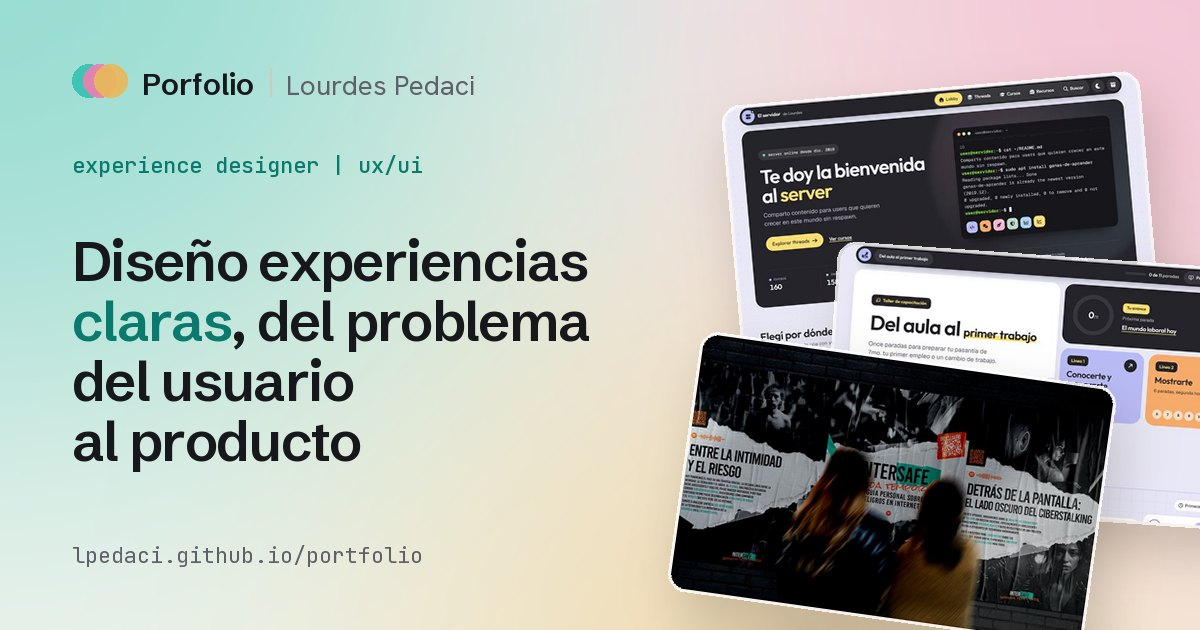
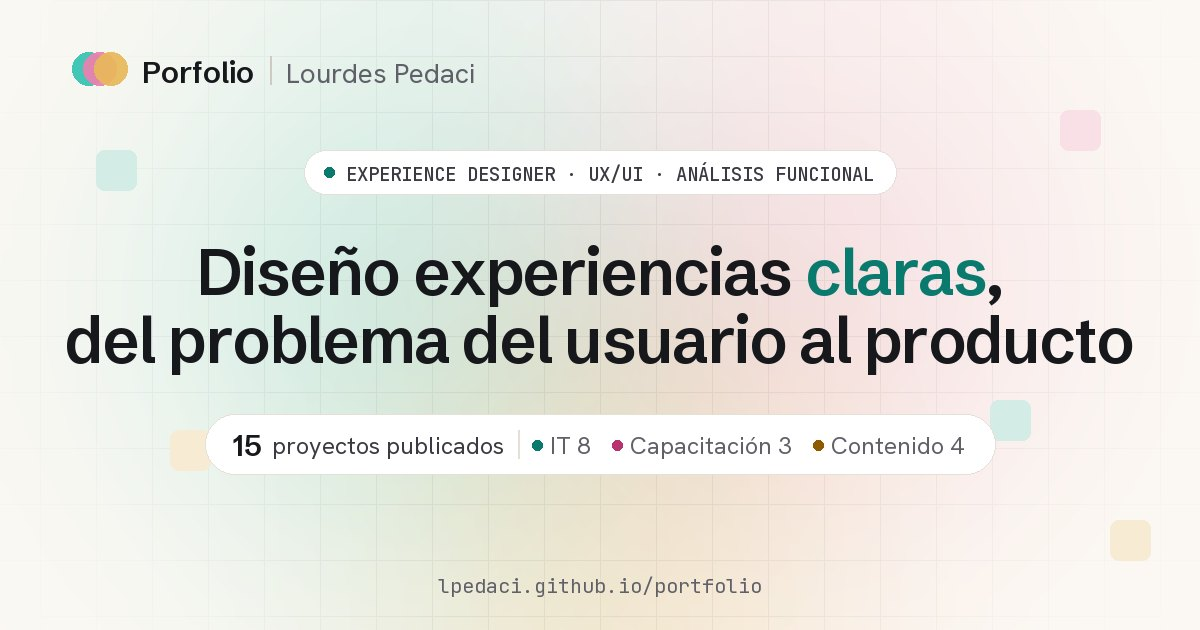
feat: og-card de la portada con el diseño del hero, Capacitadora 2026 y Consultora UX/UI actualizada en el recorrido, roles a los que apunto y sin sombra al pasar sobre Habilidades

diff --git a/assets/js/i18n.js b/assets/js/i18n.js
@@ -57,9 +57,10 @@ window.I18N = {
     path: [
       { year: '2019', role: 'Instructora de Sistemas Operativos y Seguridad de la Información', org: 'Instituto Leonardo Murialdo', body: 'Diagnóstico de incidentes en escenarios reales, rutas de aprendizaje por perfil y gestión de requisitos y KPIs en proyectos de ciberseguridad.' },
       { year: '2022', role: 'Estandarización de infraestructura IT', org: 'Laboratorios de informática', body: 'Auditoría de hardware y software, y un SOP de 96 páginas que cualquier técnico puede reproducir.' },
-      { year: '2024', role: 'Consultora UX/UI', org: 'Independiente', body: 'Auditorías heurísticas, wireframes y testeo con usuarios. Investigación con 1.741 participantes en un programa de riesgos digitales.' },
+      { year: '2024', role: 'Consultora UX/UI', org: 'Independiente', body: 'Asesoramiento a equipos de proyecto en Diseño Centrado en el Usuario, de la definición del problema al testing. Workshops de prototipado y diseño de interfaces, auditorías UX con análisis heurístico, wireframes y pruebas con usuarios, y análisis del manejo de la información en proyectos web: estructura de la base de datos, consistencia de los datos y presentación en la interfaz.' },
       { year: '2025', role: 'Facilitadora de gestión de proyectos', org: 'Incubadora ágil híbrida', body: 'Ciclo de vida con sprints y Gantt, cohortes anuales de más de 70 integrantes y equipos que desarrollan con clientes reales.' },
-      { year: 'próximo paso', role: 'Análisis funcional en IT', role2: 'Diseño UX/UI', org: 'Roles a los que apunto', body: 'Relevamiento de requisitos, documentación funcional y gestión ágil, o diseño de experiencia e interfaz, dentro de un equipo de producto.', target: true }
+      { year: '2026', role: 'Capacitadora', org: 'Talleres de empleabilidad e IA', body: 'Diseño y facilitación de talleres de empleabilidad (CV, LinkedIn, entrevistas) y desarrollo personal, y de herramientas de IA para generar contenido: prompts, flujos de trabajo y revisión crítica de resultados. Plantillas, guías y recursos web para practicar después del taller.' },
+      { year: 'próximo paso', role: 'Diseño de experiencias (UX/UI)', role2: 'Creación de producto', org: 'Roles a los que apunto', body: 'Investigación con usuarios, diseño de experiencia e interfaz y construcción de producto de punta a punta, del problema y los requisitos al prototipo y la entrega, dentro de un equipo de producto.', target: true }
     ],
     skillsTitle: 'Habilidades',
     skills: [
@@ -157,9 +158,10 @@ window.I18N = {
     path: [
       { year: '2019', role: 'Operating Systems and Information Security instructor', org: 'Instituto Leonardo Murialdo', body: 'Diagnosing incidents in real scenarios, role-based learning paths, and managing requirements and KPIs in cybersecurity projects.' },
       { year: '2022', role: 'IT infrastructure standardisation', org: 'Computer labs', body: 'Hardware and software audit, and a 96-page SOP that any technician can reproduce.' },
-      { year: '2024', role: 'UX/UI consultant', org: 'Independent', body: 'Heuristic audits, wireframes and user testing. Research with 1,741 participants in a digital risk programme.' },
+      { year: '2024', role: 'UX/UI consultant', org: 'Independent', body: 'Advising project teams on User-Centred Design, from problem definition to testing. Hands-on prototyping and interface design workshops, UX audits based on heuristic analysis, wireframes and user testing, and analysis of how web projects handle information: database structure, data consistency and how it is presented in the interface.' },
       { year: '2025', role: 'Project management facilitator', org: 'Hybrid agile incubator', body: 'Project lifecycle with sprints and Gantt, yearly cohorts of 70+ people, and teams building for real clients.' },
-      { year: 'next step', role: 'Functional analysis in IT', role2: 'UX/UI design', org: 'The roles I am aiming for', body: 'Requirements gathering, functional documentation and agile delivery, or experience and interface design, inside a product team.', target: true }
+      { year: '2026', role: 'Trainer', org: 'Employability and AI workshops', body: 'Design and delivery of employability workshops (CV, LinkedIn, interviews) and personal development, plus workshops on AI tools for content creation: prompts, workflows and critical review of results. Templates, guides and web resources to keep practising after the workshop.' },
+      { year: 'next step', role: 'Experience design (UX/UI)', role2: 'Product creation', org: 'The roles I am aiming for', body: 'User research, experience and interface design, and building products end to end, from the problem and requirements to the prototype and delivery, inside a product team.', target: true }
     ],
     skillsTitle: 'Skills',
     skills: [

diff --git a/casos/servidor/index.html b/casos/servidor/index.html
@@ -33,9 +33,9 @@
   <meta name="twitter:image:alt" content="Repositorio web de recursos para autocapacitarse: análisis y diseño UX/UI: caso del porfolio de Lourdes Pedaci, Experience Designer, con una captura del proyecto.">
   <link rel="preload" href="../../assets/fonts/hanken-grotesk-latin.woff2" as="font" type="font/woff2" crossorigin>
   <link rel="preload" href="../../assets/fonts/schibsted-grotesk-latin.woff2" as="font" type="font/woff2" crossorigin>
-  <link rel="stylesheet" href="../../assets/css/fonts.css?v=202611081936">
-  <link rel="stylesheet" href="../../assets/css/icons.css?v=202611081936">
-  <link rel="stylesheet" href="../../assets/css/styles.css?v=202611081936">
+  <link rel="stylesheet" href="../../assets/css/fonts.css?v=202611082051">
+  <link rel="stylesheet" href="../../assets/css/icons.css?v=202611082051">
+  <link rel="stylesheet" href="../../assets/css/styles.css?v=202611082051">
 </head>
 <body data-slug="servidor">
   <a class="skip" href="#main" data-i18n="skip">Ir al contenido</a>
@@ -71,10 +71,10 @@
       <a class="foot__top" href="#main"><span data-i18n="backTop">Volver arriba</span><i class="ph ph-arrow-up" aria-hidden="true"></i></a>
     </div>
   </footer>
-  <script src="../../assets/js/i18n.js?v=202611081936"></script>
-  <script src="../../assets/js/projects.js?v=202611081936"></script>
-  <script src="../../assets/js/cases.js?v=202611081936"></script>
-  <script src="../../assets/js/case.js?v=202611081936"></script>
-  <script src="../../assets/js/nav.js?v=202611081936"></script>
+  <script src="../../assets/js/i18n.js?v=202611082051"></script>
+  <script src="../../assets/js/projects.js?v=202611082051"></script>
+  <script src="../../assets/js/cases.js?v=202611082051"></script>
+  <script src="../../assets/js/case.js?v=202611082051"></script>
+  <script src="../../assets/js/nav.js?v=202611082051"></script>
 </body>
 </html>

diff --git a/casos/sistemas-operativos/index.html b/casos/sistemas-operativos/index.html
@@ -33,9 +33,9 @@
   <meta name="twitter:image:alt" content="Sistemas Operativos: almacenamiento y seteo: caso del porfolio de Lourdes Pedaci, Experience Designer, con una captura del proyecto.">
   <link rel="preload" href="../../assets/fonts/hanken-grotesk-latin.woff2" as="font" type="font/woff2" crossorigin>
   <link rel="preload" href="../../assets/fonts/schibsted-grotesk-latin.woff2" as="font" type="font/woff2" crossorigin>
-  <link rel="stylesheet" href="../../assets/css/fonts.css?v=202611081936">
-  <link rel="stylesheet" href="../../assets/css/icons.css?v=202611081936">
-  <link rel="stylesheet" href="../../assets/css/styles.css?v=202611081936">
+  <link rel="stylesheet" href="../../assets/css/fonts.css?v=202611082051">
+  <link rel="stylesheet" href="../../assets/css/icons.css?v=202611082051">
+  <link rel="stylesheet" href="../../assets/css/styles.css?v=202611082051">
 </head>
 <body data-slug="sistemas-operativos">
   <a class="skip" href="#main" data-i18n="skip">Ir al contenido</a>
@@ -71,10 +71,10 @@
       <a class="foot__top" href="#main"><span data-i18n="backTop">Volver arriba</span><i class="ph ph-arrow-up" aria-hidden="true"></i></a>
     </div>
   </footer>
-  <script src="../../assets/js/i18n.js?v=202611081936"></script>
-  <script src="../../assets/js/projects.js?v=202611081936"></script>
-  <script src="../../assets/js/cases.js?v=202611081936"></script>
-  <script src="../../assets/js/case.js?v=202611081936"></script>
-  <script src="../../assets/js/nav.js?v=202611081936"></script>
+  <script src="../../assets/js/i18n.js?v=202611082051"></script>
+  <script src="../../assets/js/projects.js?v=202611082051"></script>
+  <script src="../../assets/js/cases.js?v=202611082051"></script>
+  <script src="../../assets/js/case.js?v=202611082051"></script>
+  <script src="../../assets/js/nav.js?v=202611082051"></script>
 </body>
 </html>

diff --git a/casos/auditoria-estetica/index.html b/casos/auditoria-estetica/index.html
@@ -33,9 +33,9 @@
   <meta name="twitter:image:alt" content="Auditoría UX/UI de un centro de estética: caso del porfolio de Lourdes Pedaci, Experience Designer, con una captura del proyecto.">
   <link rel="preload" href="../../assets/fonts/hanken-grotesk-latin.woff2" as="font" type="font/woff2" crossorigin>
   <link rel="preload" href="../../assets/fonts/schibsted-grotesk-latin.woff2" as="font" type="font/woff2" crossorigin>
-  <link rel="stylesheet" href="../../assets/css/fonts.css?v=202611081936">
-  <link rel="stylesheet" href="../../assets/css/icons.css?v=202611081936">
-  <link rel="stylesheet" href="../../assets/css/styles.css?v=202611081936">
+  <link rel="stylesheet" href="../../assets/css/fonts.css?v=202611082051">
+  <link rel="stylesheet" href="../../assets/css/icons.css?v=202611082051">
+  <link rel="stylesheet" href="../../assets/css/styles.css?v=202611082051">
 </head>
 <body data-slug="auditoria-estetica">
   <a class="skip" href="#main" data-i18n="skip">Ir al contenido</a>
@@ -71,10 +71,10 @@
       <a class="foot__top" href="#main"><span data-i18n="backTop">Volver arriba</span><i class="ph ph-arrow-up" aria-hidden="true"></i></a>
     </div>
   </footer>
-  <script src="../../assets/js/i18n.js?v=202611081936"></script>
-  <script src="../../assets/js/projects.js?v=202611081936"></script>
-  <script src="../../assets/js/cases.js?v=202611081936"></script>
-  <script src="../../assets/js/case.js?v=202611081936"></script>
-  <script src="../../assets/js/nav.js?v=202611081936"></script>
+  <script src="../../assets/js/i18n.js?v=202611082051"></script>
+  <script src="../../assets/js/projects.js?v=202611082051"></script>
+  <script src="../../assets/js/cases.js?v=202611082051"></script>
+  <script src="../../assets/js/case.js?v=202611082051"></script>
+  <script src="../../assets/js/nav.js?v=202611082051"></script>
 </body>
 </html>

diff --git a/casos/riesgos-digitales/index.html b/casos/riesgos-digitales/index.html
@@ -33,9 +33,9 @@
   <meta name="twitter:image:alt" content="Programa participativo de riesgos digitales: caso del porfolio de Lourdes Pedaci, Experience Designer, con una captura del proyecto.">
   <link rel="preload" href="../../assets/fonts/hanken-grotesk-latin.woff2" as="font" type="font/woff2" crossorigin>
   <link rel="preload" href="../../assets/fonts/schibsted-grotesk-latin.woff2" as="font" type="font/woff2" crossorigin>
-  <link rel="stylesheet" href="../../assets/css/fonts.css?v=202611081936">
-  <link rel="stylesheet" href="../../assets/css/icons.css?v=202611081936">
-  <link rel="stylesheet" href="../../assets/css/styles.css?v=202611081936">
+  <link rel="stylesheet" href="../../assets/css/fonts.css?v=202611082051">
+  <link rel="stylesheet" href="../../assets/css/icons.css?v=202611082051">
+  <link rel="stylesheet" href="../../assets/css/styles.css?v=202611082051">
 </head>
 <body data-slug="riesgos-digitales">
   <a class="skip" href="#main" data-i18n="skip">Ir al contenido</a>
@@ -71,10 +71,10 @@
       <a class="foot__top" href="#main"><span data-i18n="backTop">Volver arriba</span><i class="ph ph-arrow-up" aria-hidden="true"></i></a>
     </div>
   </footer>
-  <script src="../../assets/js/i18n.js?v=202611081936"></script>
-  <script src="../../assets/js/projects.js?v=202611081936"></script>
-  <script src="../../assets/js/cases.js?v=202611081936"></script>
-  <script src="../../assets/js/case.js?v=202611081936"></script>
-  <script src="../../assets/js/nav.js?v=202611081936"></script>
+  <script src="../../assets/js/i18n.js?v=202611082051"></script>
+  <script src="../../assets/js/projects.js?v=202611082051"></script>
+  <script src="../../assets/js/cases.js?v=202611082051"></script>
+  <script src="../../assets/js/case.js?v=202611082051"></script>
+  <script src="../../assets/js/nav.js?v=202611082051"></script>
 </body>
 </html>

diff --git a/casos/infraestructura-it/index.html b/casos/infraestructura-it/index.html
@@ -33,9 +33,9 @@
   <meta name="twitter:image:alt" content="Estandarización de infraestructura IT: caso del porfolio de Lourdes Pedaci, Experience Designer, con una captura del proyecto.">
   <link rel="preload" href="../../assets/fonts/hanken-grotesk-latin.woff2" as="font" type="font/woff2" crossorigin>
   <link rel="preload" href="../../assets/fonts/schibsted-grotesk-latin.woff2" as="font" type="font/woff2" crossorigin>
-  <link rel="stylesheet" href="../../assets/css/fonts.css?v=202611081936">
-  <link rel="stylesheet" href="../../assets/css/icons.css?v=202611081936">
-  <link rel="stylesheet" href="../../assets/css/styles.css?v=202611081936">
+  <link rel="stylesheet" href="../../assets/css/fonts.css?v=202611082051">
+  <link rel="stylesheet" href="../../assets/css/icons.css?v=202611082051">
+  <link rel="stylesheet" href="../../assets/css/styles.css?v=202611082051">
 </head>
 <body data-slug="infraestructura-it">
   <a class="skip" href="#main" data-i18n="skip">Ir al contenido</a>
@@ -71,10 +71,10 @@
       <a class="foot__top" href="#main"><span data-i18n="backTop">Volver arriba</span><i class="ph ph-arrow-up" aria-hidden="true"></i></a>
     </div>
   </footer>
-  <script src="../../assets/js/i18n.js?v=202611081936"></script>
-  <script src="../../assets/js/projects.js?v=202611081936"></script>
-  <script src="../../assets/js/cases.js?v=202611081936"></script>
-  <script src="../../assets/js/case.js?v=202611081936"></script>
-  <script src="../../assets/js/nav.js?v=202611081936"></script>
+  <script src="../../assets/js/i18n.js?v=202611082051"></script>
+  <script src="../../assets/js/projects.js?v=202611082051"></script>
+  <script src="../../assets/js/cases.js?v=202611082051"></script>
+  <script src="../../assets/js/case.js?v=202611082051"></script>
+  <script src="../../assets/js/nav.js?v=202611082051"></script>
 </body>
 </html>

diff --git a/casos/auditoria-turnos/index.html b/casos/auditoria-turnos/index.html
@@ -33,9 +33,9 @@
   <meta name="twitter:image:alt" content="Auditoría UX/UI de un portal de turnos: caso del porfolio de Lourdes Pedaci, Experience Designer, con una captura del proyecto.">
   <link rel="preload" href="../../assets/fonts/hanken-grotesk-latin.woff2" as="font" type="font/woff2" crossorigin>
   <link rel="preload" href="../../assets/fonts/schibsted-grotesk-latin.woff2" as="font" type="font/woff2" crossorigin>
-  <link rel="stylesheet" href="../../assets/css/fonts.css?v=202611081936">
-  <link rel="stylesheet" href="../../assets/css/icons.css?v=202611081936">
-  <link rel="stylesheet" href="../../assets/css/styles.css?v=202611081936">
+  <link rel="stylesheet" href="../../assets/css/fonts.css?v=202611082051">
+  <link rel="stylesheet" href="../../assets/css/icons.css?v=202611082051">
+  <link rel="stylesheet" href="../../assets/css/styles.css?v=202611082051">
 </head>
 <body data-slug="auditoria-turnos">
   <a class="skip" href="#main" data-i18n="skip">Ir al contenido</a>
@@ -71,10 +71,10 @@
       <a class="foot__top" href="#main"><span data-i18n="backTop">Volver arriba</span><i class="ph ph-arrow-up" aria-hidden="true"></i></a>
     </div>
   </footer>
-  <script src="../../assets/js/i18n.js?v=202611081936"></script>
-  <script src="../../assets/js/projects.js?v=202611081936"></script>
-  <script src="../../assets/js/cases.js?v=202611081936"></script>
-  <script src="../../assets/js/case.js?v=202611081936"></script>
-  <script src="../../assets/js/nav.js?v=202611081936"></script>
+  <script src="../../assets/js/i18n.js?v=202611082051"></script>
+  <script src="../../assets/js/projects.js?v=202611082051"></script>
+  <script src="../../assets/js/cases.js?v=202611082051"></script>
+  <script src="../../assets/js/case.js?v=202611082051"></script>
+  <script src="../../assets/js/nav.js?v=202611082051"></script>
 </body>
 </html>

diff --git a/casos/docente-era-digital/index.html b/casos/docente-era-digital/index.html
@@ -33,9 +33,9 @@
   <meta name="twitter:image:alt" content="El rol docente en la era digital: caso del porfolio de Lourdes Pedaci, Experience Designer, con una captura del proyecto.">
   <link rel="preload" href="../../assets/fonts/hanken-grotesk-latin.woff2" as="font" type="font/woff2" crossorigin>
   <link rel="preload" href="../../assets/fonts/schibsted-grotesk-latin.woff2" as="font" type="font/woff2" crossorigin>
-  <link rel="stylesheet" href="../../assets/css/fonts.css?v=202611081936">
-  <link rel="stylesheet" href="../../assets/css/icons.css?v=202611081936">
-  <link rel="stylesheet" href="../../assets/css/styles.css?v=202611081936">
+  <link rel="stylesheet" href="../../assets/css/fonts.css?v=202611082051">
+  <link rel="stylesheet" href="../../assets/css/icons.css?v=202611082051">
+  <link rel="stylesheet" href="../../assets/css/styles.css?v=202611082051">
 </head>
 <body data-slug="docente-era-digital">
   <a class="skip" href="#main" data-i18n="skip">Ir al contenido</a>
@@ -71,10 +71,10 @@
       <a class="foot__top" href="#main"><span data-i18n="backTop">Volver arriba</span><i class="ph ph-arrow-up" aria-hidden="true"></i></a>
     </div>
   </footer>
-  <script src="../../assets/js/i18n.js?v=202611081936"></script>
-  <script src="../../assets/js/projects.js?v=202611081936"></script>
-  <script src="../../assets/js/cases.js?v=202611081936"></script>
-  <script src="../../assets/js/case.js?v=202611081936"></script>
-  <script src="../../assets/js/nav.js?v=202611081936"></script>
+  <script src="../../assets/js/i18n.js?v=202611082051"></script>
+  <script src="../../assets/js/projects.js?v=202611082051"></script>
+  <script src="../../assets/js/cases.js?v=202611082051"></script>
+  <script src="../../assets/js/case.js?v=202611082051"></script>
+  <script src="../../assets/js/nav.js?v=202611082051"></script>
 </body>
 </html>

diff --git a/casos/erp-motion-graphics/index.html b/casos/erp-motion-graphics/index.html
@@ -33,9 +33,9 @@
   <meta name="twitter:image:alt" content="Sistemas ERP en motion graphics: caso del porfolio de Lourdes Pedaci, Experience Designer, con una captura del proyecto.">
   <link rel="preload" href="../../assets/fonts/hanken-grotesk-latin.woff2" as="font" type="font/woff2" crossorigin>
   <link rel="preload" href="../../assets/fonts/schibsted-grotesk-latin.woff2" as="font" type="font/woff2" crossorigin>
-  <link rel="stylesheet" href="../../assets/css/fonts.css?v=202611081936">
-  <link rel="stylesheet" href="../../assets/css/icons.css?v=202611081936">
-  <link rel="stylesheet" href="../../assets/css/styles.css?v=202611081936">
+  <link rel="stylesheet" href="../../assets/css/fonts.css?v=202611082051">
+  <link rel="stylesheet" href="../../assets/css/icons.css?v=202611082051">
+  <link rel="stylesheet" href="../../assets/css/styles.css?v=202611082051">
 </head>
 <body data-slug="erp-motion-graphics">
   <a class="skip" href="#main" data-i18n="skip">Ir al contenido</a>
@@ -71,10 +71,10 @@
       <a class="foot__top" href="#main"><span data-i18n="backTop">Volver arriba</span><i class="ph ph-arrow-up" aria-hidden="true"></i></a>
     </div>
   </footer>
-  <script src="../../assets/js/i18n.js?v=202611081936"></script>
-  <script src="../../assets/js/projects.js?v=202611081936"></script>
-  <script src="../../assets/js/cases.js?v=202611081936"></script>
-  <script src="../../assets/js/case.js?v=202611081936"></script>
-  <script src="../../assets/js/nav.js?v=202611081936"></script>
+  <script src="../../assets/js/i18n.js?v=202611082051"></script>
+  <script src="../../assets/js/projects.js?v=202611082051"></script>
+  <script src="../../assets/js/cases.js?v=202611082051"></script>
+  <script src="../../assets/js/case.js?v=202611082051"></script>
+  <script src="../../assets/js/nav.js?v=202611082051"></script>
 </body>
 </html>

diff --git a/casos/proyectos-aplicados/index.html b/casos/proyectos-aplicados/index.html
@@ -33,9 +33,9 @@
   <meta name="twitter:image:alt" content="Programa de proyectos aplicados: caso del porfolio de Lourdes Pedaci, Experience Designer, con una captura del proyecto.">
   <link rel="preload" href="../../assets/fonts/hanken-grotesk-latin.woff2" as="font" type="font/woff2" crossorigin>
   <link rel="preload" href="../../assets/fonts/schibsted-grotesk-latin.woff2" as="font" type="font/woff2" crossorigin>
-  <link rel="stylesheet" href="../../assets/css/fonts.css?v=202611081936">
-  <link rel="stylesheet" href="../../assets/css/icons.css?v=202611081936">
-  <link rel="stylesheet" href="../../assets/css/styles.css?v=202611081936">
+  <link rel="stylesheet" href="../../assets/css/fonts.css?v=202611082051">
+  <link rel="stylesheet" href="../../assets/css/icons.css?v=202611082051">
+  <link rel="stylesheet" href="../../assets/css/styles.css?v=202611082051">
 </head>
 <body data-slug="proyectos-aplicados">
   <a class="skip" href="#main" data-i18n="skip">Ir al contenido</a>
@@ -71,10 +71,10 @@
       <a class="foot__top" href="#main"><span data-i18n="backTop">Volver arriba</span><i class="ph ph-arrow-up" aria-hidden="true"></i></a>
     </div>
   </footer>
-  <script src="../../assets/js/i18n.js?v=202611081936"></script>
-  <script src="../../assets/js/projects.js?v=202611081936"></script>
-  <script src="../../assets/js/cases.js?v=202611081936"></script>
-  <script src="../../assets/js/case.js?v=202611081936"></script>
-  <script src="../../assets/js/nav.js?v=202611081936"></script>
+  <script src="../../assets/js/i18n.js?v=202611082051"></script>
+  <script src="../../assets/js/projects.js?v=202611082051"></script>
+  <script src="../../assets/js/cases.js?v=202611082051"></script>
+  <script src="../../assets/js/case.js?v=202611082051"></script>
+  <script src="../../assets/js/nav.js?v=202611082051"></script>
 </body>
 </html>

diff --git a/casos/expo-smart-cities/index.html b/casos/expo-smart-cities/index.html
@@ -33,9 +33,9 @@
   <meta name="twitter:image:alt" content="Apertura, Expo Smart Cities 2024: caso del porfolio de Lourdes Pedaci, Experience Designer, con una captura del proyecto.">
   <link rel="preload" href="../../assets/fonts/hanken-grotesk-latin.woff2" as="font" type="font/woff2" crossorigin>
   <link rel="preload" href="../../assets/fonts/schibsted-grotesk-latin.woff2" as="font" type="font/woff2" crossorigin>
-  <link rel="stylesheet" href="../../assets/css/fonts.css?v=202611081936">
-  <link rel="stylesheet" href="../../assets/css/icons.css?v=202611081936">
-  <link rel="stylesheet" href="../../assets/css/styles.css?v=202611081936">
+  <link rel="stylesheet" href="../../assets/css/fonts.css?v=202611082051">
+  <link rel="stylesheet" href="../../assets/css/icons.css?v=202611082051">
+  <link rel="stylesheet" href="../../assets/css/styles.css?v=202611082051">
 </head>
 <body data-slug="expo-smart-cities">
   <a class="skip" href="#main" data-i18n="skip">Ir al contenido</a>
@@ -71,10 +71,10 @@
       <a class="foot__top" href="#main"><span data-i18n="backTop">Volver arriba</span><i class="ph ph-arrow-up" aria-hidden="true"></i></a>
     </div>
   </footer>
-  <script src="../../assets/js/i18n.js?v=202611081936"></script>
-  <script src="../../assets/js/projects.js?v=202611081936"></script>
-  <script src="../../assets/js/cases.js?v=202611081936"></script>
-  <script src="../../assets/js/case.js?v=202611081936"></script>
-  <script src="../../assets/js/nav.js?v=202611081936"></script>
+  <script src="../../assets/js/i18n.js?v=202611082051"></script>
+  <script src="../../assets/js/projects.js?v=202611082051"></script>
+  <script src="../../assets/js/cases.js?v=202611082051"></script>
+  <script src="../../assets/js/case.js?v=202611082051"></script>
+  <script src="../../assets/js/nav.js?v=202611082051"></script>
 </body>
 </html>

diff --git a/casos/the-crow/index.html b/casos/the-crow/index.html
@@ -33,9 +33,9 @@
   <meta name="twitter:image:alt" content="The Crow, según Edgar Allan Poe: caso del porfolio de Lourdes Pedaci, Experience Designer, con una captura del proyecto.">
   <link rel="preload" href="../../assets/fonts/hanken-grotesk-latin.woff2" as="font" type="font/woff2" crossorigin>
   <link rel="preload" href="../../assets/fonts/schibsted-grotesk-latin.woff2" as="font" type="font/woff2" crossorigin>
-  <link rel="stylesheet" href="../../assets/css/fonts.css?v=202611081936">
-  <link rel="stylesheet" href="../../assets/css/icons.css?v=202611081936">
-  <link rel="stylesheet" href="../../assets/css/styles.css?v=202611081936">
+  <link rel="stylesheet" href="../../assets/css/fonts.css?v=202611082051">
+  <link rel="stylesheet" href="../../assets/css/icons.css?v=202611082051">
+  <link rel="stylesheet" href="../../assets/css/styles.css?v=202611082051">
 </head>
 <body data-slug="the-crow">
   <a class="skip" href="#main" data-i18n="skip">Ir al contenido</a>
@@ -71,10 +71,10 @@
       <a class="foot__top" href="#main"><span data-i18n="backTop">Volver arriba</span><i class="ph ph-arrow-up" aria-hidden="true"></i></a>
     </div>
   </footer>
-  <script src="../../assets/js/i18n.js?v=202611081936"></script>
-  <script src="../../assets/js/projects.js?v=202611081936"></script>
-  <script src="../../assets/js/cases.js?v=202611081936"></script>
-  <script src="../../assets/js/case.js?v=202611081936"></script>
-  <script src="../../assets/js/nav.js?v=202611081936"></script>
+  <script src="../../assets/js/i18n.js?v=202611082051"></script>
+  <script src="../../assets/js/projects.js?v=202611082051"></script>
+  <script src="../../assets/js/cases.js?v=202611082051"></script>
+  <script src="../../assets/js/case.js?v=202611082051"></script>
+  <script src="../../assets/js/nav.js?v=202611082051"></script>
 </body>
 </html>
